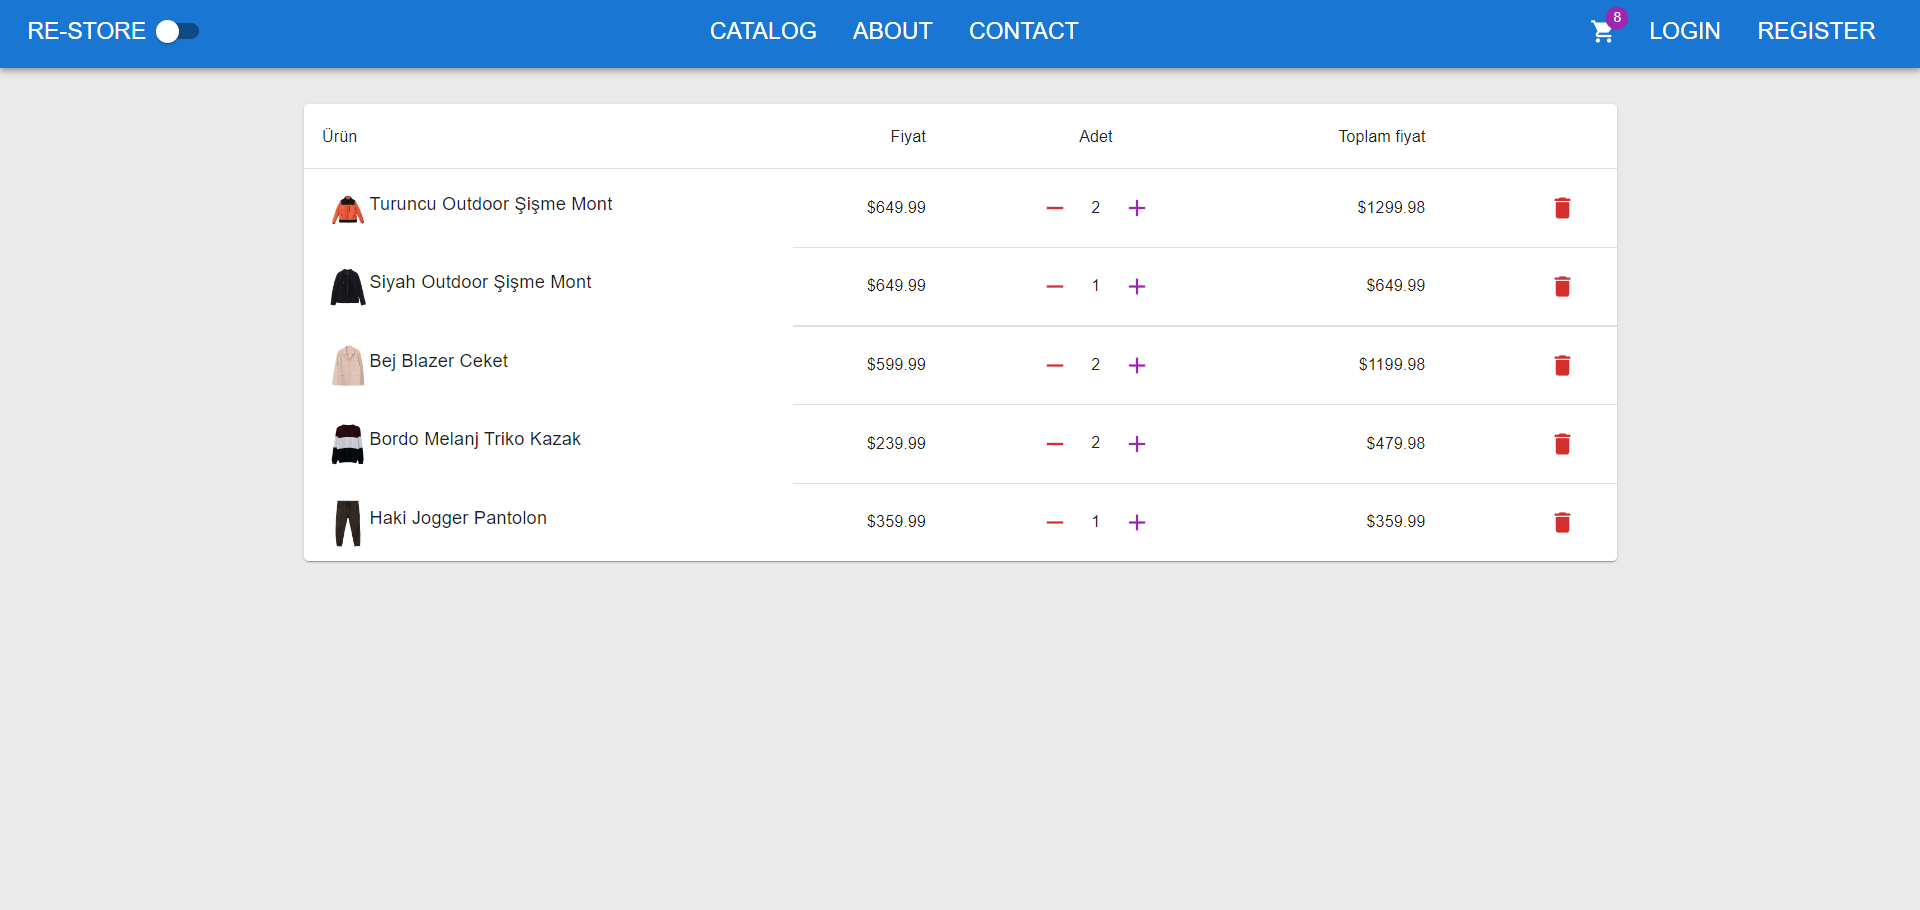
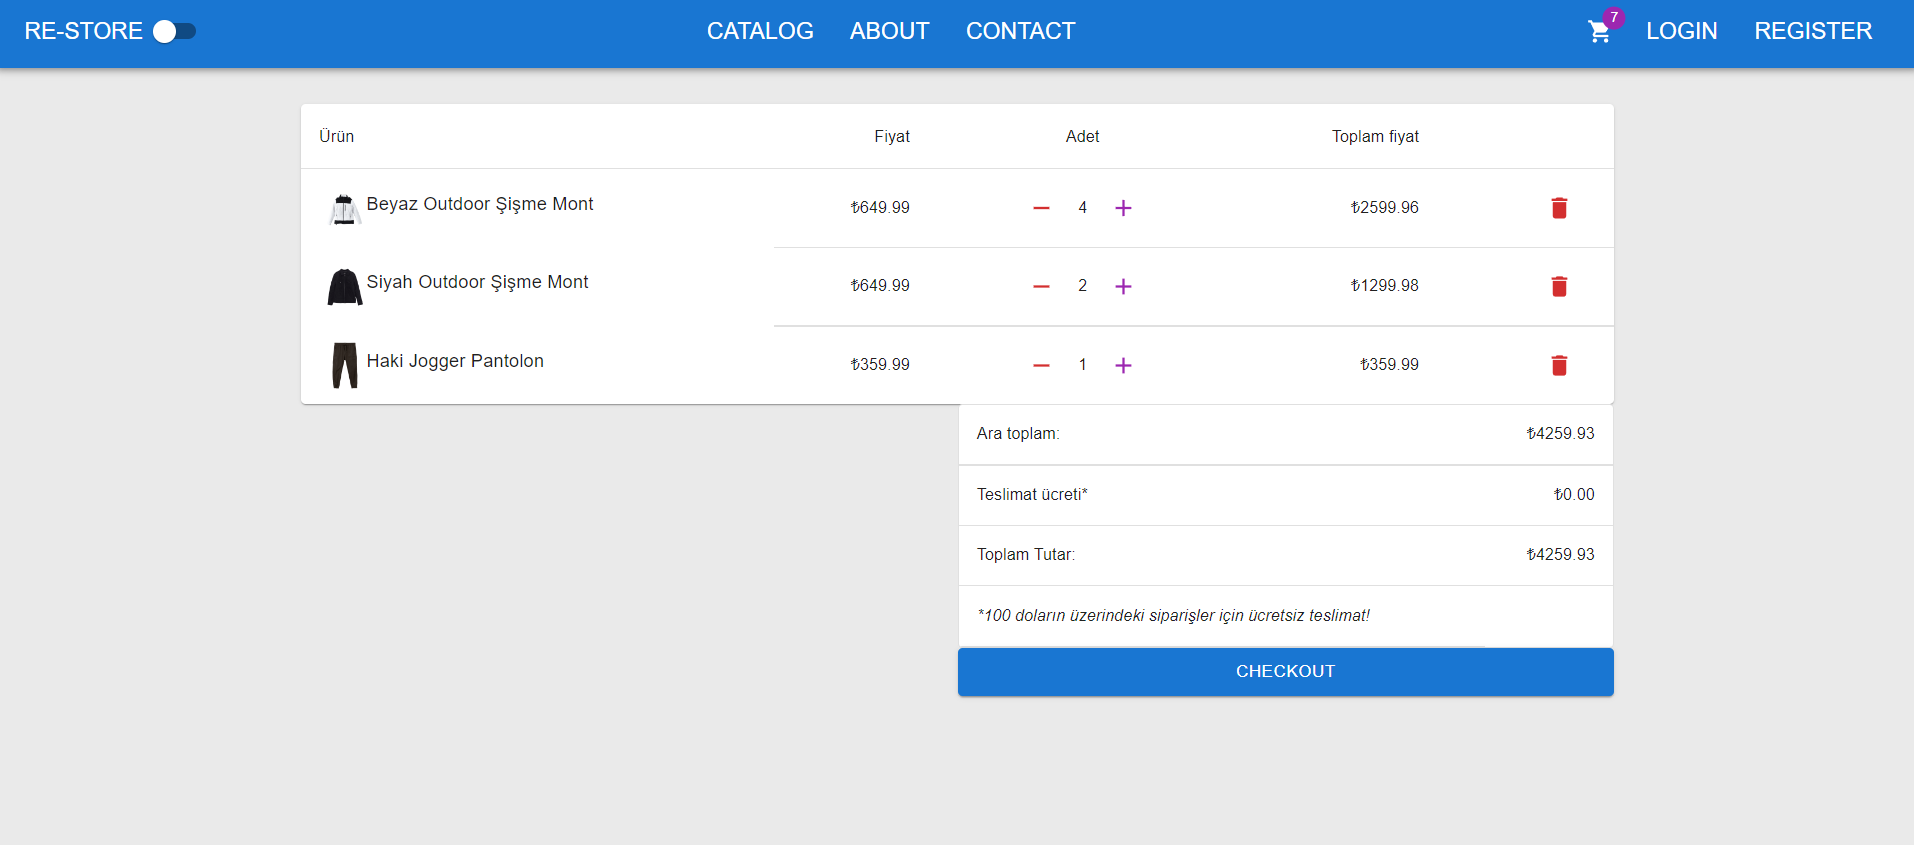
End of section 6

diff --git a/client/src/features/basket/BasketPage.tsx b/client/src/features/basket/BasketPage.tsx
@@ -1,9 +1,11 @@
 import { Add, Delete, Remove } from "@mui/icons-material";
 import { LoadingButton } from "@mui/lab";
-import { Box, Paper, Table, TableBody, TableCell, TableContainer, TableHead, TableRow, Typography } from "@mui/material";
+import { Box, Button, Grid, Link, Paper, Table, TableBody, TableCell, TableContainer, TableHead, TableRow, Typography } from "@mui/material";
 import { useState } from "react"
 import agent from "../../app/api/agent";
 import { useStoreContext } from "../../app/context/ReStoreContext";
+import { currencyFormat } from "../../app/util/util";
+import BasketSummary from "./BasketSummary";
 
 export default function BasketPage() {
 
@@ -35,64 +37,82 @@ export default function BasketPage() {
     if (!basket) return <Typography variant='h3'>Sepetiniz henüz boş!</Typography>
 
     return (
-        <TableContainer component={Paper}>
-            <Table sx={{ minWidth: 650 }} aria-label="simple table">
-                <TableHead>
-                    <TableRow>
-                        <TableCell>Ürün</TableCell>
-                        <TableCell align="right">Fiyat</TableCell>
-                        <TableCell align="center">Adet</TableCell>
-                        <TableCell align="right">Toplam fiyat</TableCell>
-                        <TableCell align="right"></TableCell>
-                    </TableRow>
-                </TableHead>
-                <TableBody>
-                    {basket.items.map((item) => (
-                        <TableRow
-                            key={item.productId}
-                            sx={{ '&:last-child td, &:last-child th': { border: 0 } }}
-                        >
-                            <Box display='flex' alignItems='center'>
-                                <img src={item.pictureUrl} alt={item.name} style={{ height: 50, marginLeft: 20, marginTop: 10 }} />
-                                <span>{item.name}</span>
-
-                            </Box>
-                            <TableCell align="right">${(item.price / 100).toFixed(2)}</TableCell>
-                            <TableCell align="center">
-
-                                <LoadingButton
-                                    loading={status.loading && status.name === 'rem' + item.productId}
-                                    onClick={() => handleRemoveItem(item.productId, 1, 'rem' + item.productId)}
-                                    color='error'
-                                >
-                                    <Remove />
-                                </LoadingButton>
-
-                                {item.quantity}
-
-                                <LoadingButton
-                                    loading={status.loading && status.name === 'add' + item.productId}
-                                    onClick={() => handleAddItem(item.productId, 'add' + item.productId)}
-                                    color='secondary'
-                                >
-                                    <Add />
-                                </LoadingButton>
-
-                            </TableCell>
-                            <TableCell align="right">${((item.price / 100) * item.quantity).toFixed(2)}</TableCell>
-                            <TableCell align="right">
-                                <LoadingButton
-                                    loading={status.loading && status.name === 'del' + item.productId}
-                                    onClick={() => handleRemoveItem(item.productId, item.quantity, 'del' + item.productId)}
-                                    color='error'
-                                >
-                                    <Delete />
-                                </LoadingButton>
-                            </TableCell>
+        <>
+            <TableContainer component={Paper}>
+                <Table sx={{ minWidth: 650 }} aria-label="simple table">
+                    <TableHead>
+                        <TableRow>
+                            <TableCell>Ürün</TableCell>
+                            <TableCell align="right">Fiyat</TableCell>
+                            <TableCell align="center">Adet</TableCell>
+                            <TableCell align="right">Toplam fiyat</TableCell>
+                            <TableCell align="right"></TableCell>
                         </TableRow>
-                    ))}
-                </TableBody>
-            </Table>
-        </TableContainer>
+                    </TableHead>
+                    <TableBody>
+                        {basket.items.map((item) => (
+                            <TableRow
+                                key={item.productId}
+                                sx={{ '&:last-child td, &:last-child th': { border: 0 } }}
+                            >
+                                <Box display='flex' alignItems='center'>
+                                    <img src={item.pictureUrl} alt={item.name} style={{ height: 50, marginLeft: 20, marginTop: 10 }} />
+                                    <span>{item.name}</span>
+
+                                </Box>
+                                <TableCell align="right">{currencyFormat(item.price)}</TableCell>
+                                <TableCell align="center">
+
+                                    <LoadingButton
+                                        loading={status.loading && status.name === 'rem' + item.productId}
+                                        onClick={() => handleRemoveItem(item.productId, 1, 'rem' + item.productId)}
+                                        color='error'
+                                    >
+                                        <Remove />
+                                    </LoadingButton>
+
+                                    {item.quantity}
+
+                                    <LoadingButton
+                                        loading={status.loading && status.name === 'add' + item.productId}
+                                        onClick={() => handleAddItem(item.productId, 'add' + item.productId)}
+                                        color='secondary'
+                                    >
+                                        <Add />
+                                    </LoadingButton>
+
+                                </TableCell>
+                                <TableCell align="right">{currencyFormat(item.price * item.quantity)}</TableCell>
+                                <TableCell align="right">
+                                    <LoadingButton
+                                        loading={status.loading && status.name === 'del' + item.productId}
+                                        onClick={() => handleRemoveItem(item.productId, item.quantity, 'del' + item.productId)}
+                                        color='error'
+                                    >
+                                        <Delete />
+                                    </LoadingButton>
+                                </TableCell>
+                            </TableRow>
+                        ))}
+                    </TableBody>
+                </Table>
+            </TableContainer>
+
+            <Grid container>
+                <Grid item xs={6} />
+                <Grid item xs={6}>
+                    <BasketSummary />
+                    <Link href="/checkout">
+                        <Button
+                            fullWidth
+                            size='large'
+                            variant='contained'
+                        >
+                            Checkout
+                        </Button>
+                    </Link>
+                </Grid>
+            </Grid>
+        </>
     )
 }

diff --git a/client/src/features/catalog/ProductDetails.tsx b/client/src/features/catalog/ProductDetails.tsx
@@ -1,7 +1,9 @@
-import { Divider, Grid, Table, TableBody, TableCell, TableContainer, TableRow, Typography } from "@mui/material";
+import { LoadingButton } from "@mui/lab";
+import { Divider, Grid, Table, TableBody, TableCell, TableContainer, TableRow, TextField, Typography } from "@mui/material";
 import { useEffect, useState } from "react";
 import { useParams } from "react-router-dom";
 import agent from "../../app/api/agent";
+import { useStoreContext } from "../../app/context/ReStoreContext";
 import NotFound from "../../app/errors/NotFound";
 import LoadingComponent from "../../app/layout/LoadingComponent";
 import { Product } from "../../app/models/product";
@@ -11,12 +13,42 @@ export default function ProductDetails() {
     const [product, setProduct] = useState<Product | null>(null);
     const [loading, setLoading] = useState(true);
 
+    const { basket, setBasket, removeItem } = useStoreContext();
+    const [quantity, setQuantity] = useState(0);
+    const [submitting, setSubmitting] = useState(false);
+    const item = basket?.items.find(i => i.productId === product?.id);
+
     useEffect(() => {
+        if (item) setQuantity(item.quantity);
         agent.Catalog.details(parseInt(id!))
             .then((response) => setProduct(response))
             .catch((error) => console.log(error))
             .finally(() => setLoading(false));
-    }, [id]);
+    }, [id, item]);
+
+    function handleInputChange(event: any) {
+        if (event.target.value >= 0) {
+            setQuantity(parseInt(event.target.value));
+        }
+    }
+
+    function handleUpdateCart() {
+        setSubmitting(true);
+        if (!item || quantity > item.quantity) {
+            const updatedQuantity = item ? quantity - item.quantity : quantity;
+            agent.Basket.addItem(product?.id!, updatedQuantity)
+                .then(basket => setBasket(basket))
+                .catch(error => console.log(error))
+                .finally(() => setSubmitting(false));
+        }
+        else {
+            const updatedQuantity = item.quantity - quantity;
+            agent.Basket.removeItem(product?.id!, updatedQuantity)
+                .then(() => removeItem(product?.id!, updatedQuantity))
+                .catch(error => console.log(error))
+                .finally(() => setSubmitting(false));
+        }
+    }
 
     if (loading) return <LoadingComponent message='Loading product...' />
 
@@ -33,6 +65,7 @@ export default function ProductDetails() {
                 <Typography variant='h4' color='secondary'>${(product.price / 100).toFixed(2)}</Typography>
 
                 <TableContainer>
+
                     <Table>
                         <TableBody>
                             <TableRow>
@@ -55,8 +88,37 @@ export default function ProductDetails() {
                             </TableRow>
                         </TableBody>
                     </Table>
+
                 </TableContainer>
 
+                <Grid container spacing={2}>
+                    <Grid item xs={6}>
+                        <TextField
+                            variant='outlined'
+                            type='number'
+                            label='Quantity in Cart'
+                            fullWidth
+                            value={quantity}
+                            onChange={handleInputChange}
+                        />
+                    </Grid>
+
+                    <Grid item xs={6}>
+                        <LoadingButton
+                            disabled={item?.quantity === quantity || !item && quantity === 0}
+                            loading={submitting}
+                            onClick={handleUpdateCart}
+                            sx={{ height: '55px' }}
+                            color='primary'
+                            size='large'
+                            variant='contained'
+                            fullWidth
+                        >
+                            {item ? 'Update Quantity' : 'Add to Cart'}
+                        </LoadingButton>
+                    </Grid>
+
+                </Grid>
             </Grid>
         </Grid>
     )

diff --git a/client/src/features/basket/BasketSummary.tsx b/client/src/features/basket/BasketSummary.tsx
@@ -1,0 +1,37 @@
+import { TableContainer, Paper, Table, TableBody, TableRow, TableCell } from "@mui/material";
+import { useStoreContext } from "../../app/context/ReStoreContext";
+import { currencyFormat } from "../../app/util/util";
+
+export default function BasketSummary() {
+    const {basket} = useStoreContext();
+    const subtotal = basket?.items.reduce((sum, item) => sum + (item.quantity * item.price), 0) ?? 0;
+    const deliveryFee = subtotal > 10000 ? 0 : 500;
+
+    return (
+        <>
+            <TableContainer component={Paper} variant={'outlined'}>
+                <Table>
+                    <TableBody>
+                        <TableRow>
+                            <TableCell colSpan={2}>Ara toplam: </TableCell>
+                            <TableCell align="right">{currencyFormat(subtotal)}</TableCell>
+                        </TableRow>
+                        <TableRow>
+                            <TableCell colSpan={2}>Teslimat ücreti*</TableCell>
+                            <TableCell align="right">{currencyFormat(deliveryFee)}</TableCell>
+                        </TableRow>
+                        <TableRow>
+                            <TableCell colSpan={2}>Toplam Tutar:</TableCell>
+                            <TableCell align="right">{currencyFormat(subtotal + deliveryFee)}</TableCell>
+                        </TableRow>
+                        <TableRow>
+                            <TableCell>
+                                <span style={{fontStyle: 'italic'}}>*100 doların üzerindeki siparişler için ücretsiz teslimat!</span>
+                            </TableCell>
+                        </TableRow>
+                    </TableBody>
+                </Table>
+            </TableContainer>
+        </>
+    )
+}

diff --git a/client/src/features/catalog/ProductCard.tsx b/client/src/features/catalog/ProductCard.tsx
@@ -20,6 +20,7 @@ import { Link } from "react-router-dom";
 import agent from "../../app/api/agent";
 import { LoadingButton } from "@mui/lab";
 import { useStoreContext } from "../../app/context/ReStoreContext";
+import { currencyFormat } from "../../app/util/util";
 
 interface Props {
   product: Product;
@@ -45,7 +46,7 @@ export default function ProductCard({ product }: Props) {
   // Basket
   const [loading, setLoading] = React.useState(false);
   // badgeContent
-  const {setBasket} = useStoreContext();
+  const { setBasket } = useStoreContext();
 
   function handleAddItem(productId: number) {
     setLoading(true);
@@ -91,7 +92,7 @@ export default function ProductCard({ product }: Props) {
       />
       <CardContent>
         <Typography gutterBottom color="secondary" variant="h5">
-          ₺{(product.price / 100).toFixed(2)}
+          {currencyFormat(product.price)}
         </Typography>
         <Typography variant="body2" color="text.secondary">
           {product.brand} /

diff --git a/client/src/app/layout/App.tsx b/client/src/app/layout/App.tsx
@@ -8,6 +8,7 @@ import AboutPage from "../../features/about/AboutPage";
 import BasketPage from "../../features/basket/BasketPage";
 import Catalog from "../../features/catalog/Catalog";
 import ProductDetails from "../../features/catalog/ProductDetails";
+import CheckoutPage from "../../features/checkout/CheckoutPage";
 import HomePage from "../../features/home/HomePage";
 import agent from "../api/agent";
 import { useStoreContext } from "../context/ReStoreContext";
@@ -76,6 +77,7 @@ function App() {
           <Route path='/about' element={<AboutPage />} />
           <Route path='/contact' element={<ContactPage />} />
           <Route path='/basket' element={<BasketPage />} />
+          <Route path='/checkout' element={<CheckoutPage />} />
           <Route path='*' element={<NotFound />} />
         </Routes>
       </Container>

diff --git a/client/src/app/util/util.tsx b/client/src/app/util/util.tsx
@@ -3,6 +3,7 @@ export function getCookie(key: string) {
     return b ? b.pop() : "";
 }
 
+// total price
 export function currencyFormat(amount: number) {
-    return '$' + (amount / 100).toFixed(2);
+    return '₺' + (amount / 100).toFixed(2);
 }

diff --git a/client/src/features/checkout/CheckoutPage.tsx b/client/src/features/checkout/CheckoutPage.tsx
@@ -1,0 +1,9 @@
+import { Typography } from "@mui/material";
+
+export default function CheckoutPage() {
+    return (
+        <Typography variant='h3'>
+            Only logged in users should be able to see this!
+        </Typography>
+    )
+}

diff --git a/README.md b/README.md
@@ -1,11 +1,12 @@
 # Re-Store
 > *  ['http://localhost:5000/api/Products'] ve ['http://localhost:5000/api/Basket'] url'lerini tüketen ilk React uygulamam
-> *  Tamamlanma Oranı: %35
+> *  Tamamlanma Oranı: %40
 
 ## İzlence
-> * Ürünler listelendi.
+> * Ürünlerin listelendiği Catalog sayfası oluşturuldu.
 > * Ürün detay sayfası oluşturuldu.
-> * Ürün ekleme ve çıkarma fonksiyonlarıyla birlikte sepet eklendi.
+> * Ürün ekleme, çıkarma ve toplam fiyat fonksiyonlarıyla birlikte sepet eklendi.
+> * Ürün detay sayfasında o ürüne dair adet güncelleyebilme fonksiyonu eklendi.
 <br/>
 
 ## ASP.NET Core WEB API & React 18.1.0
